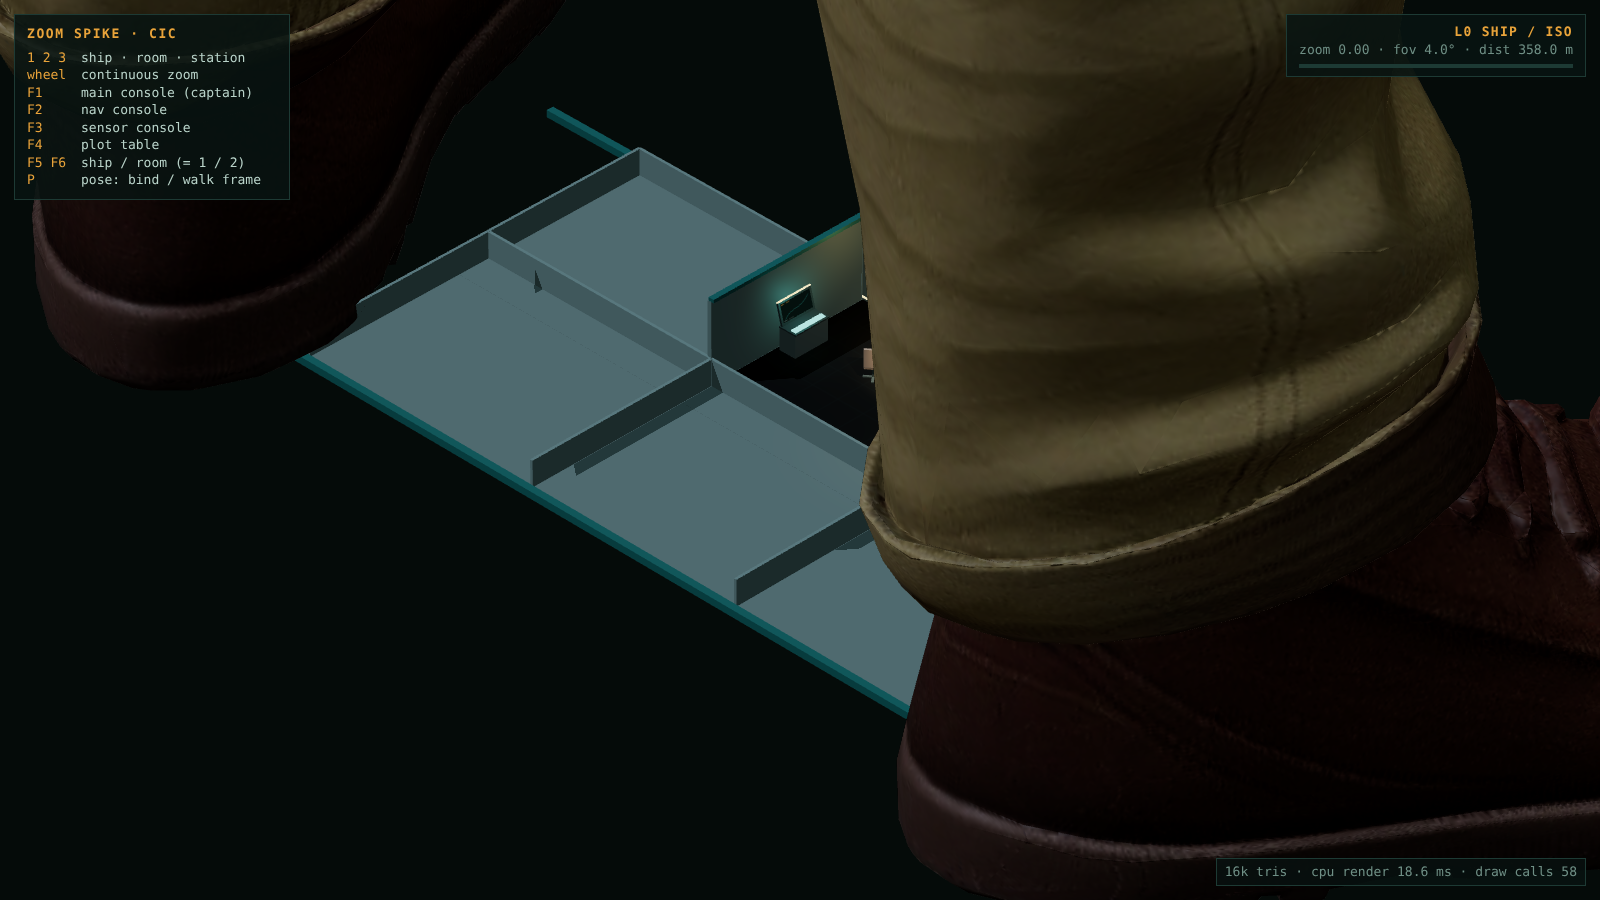
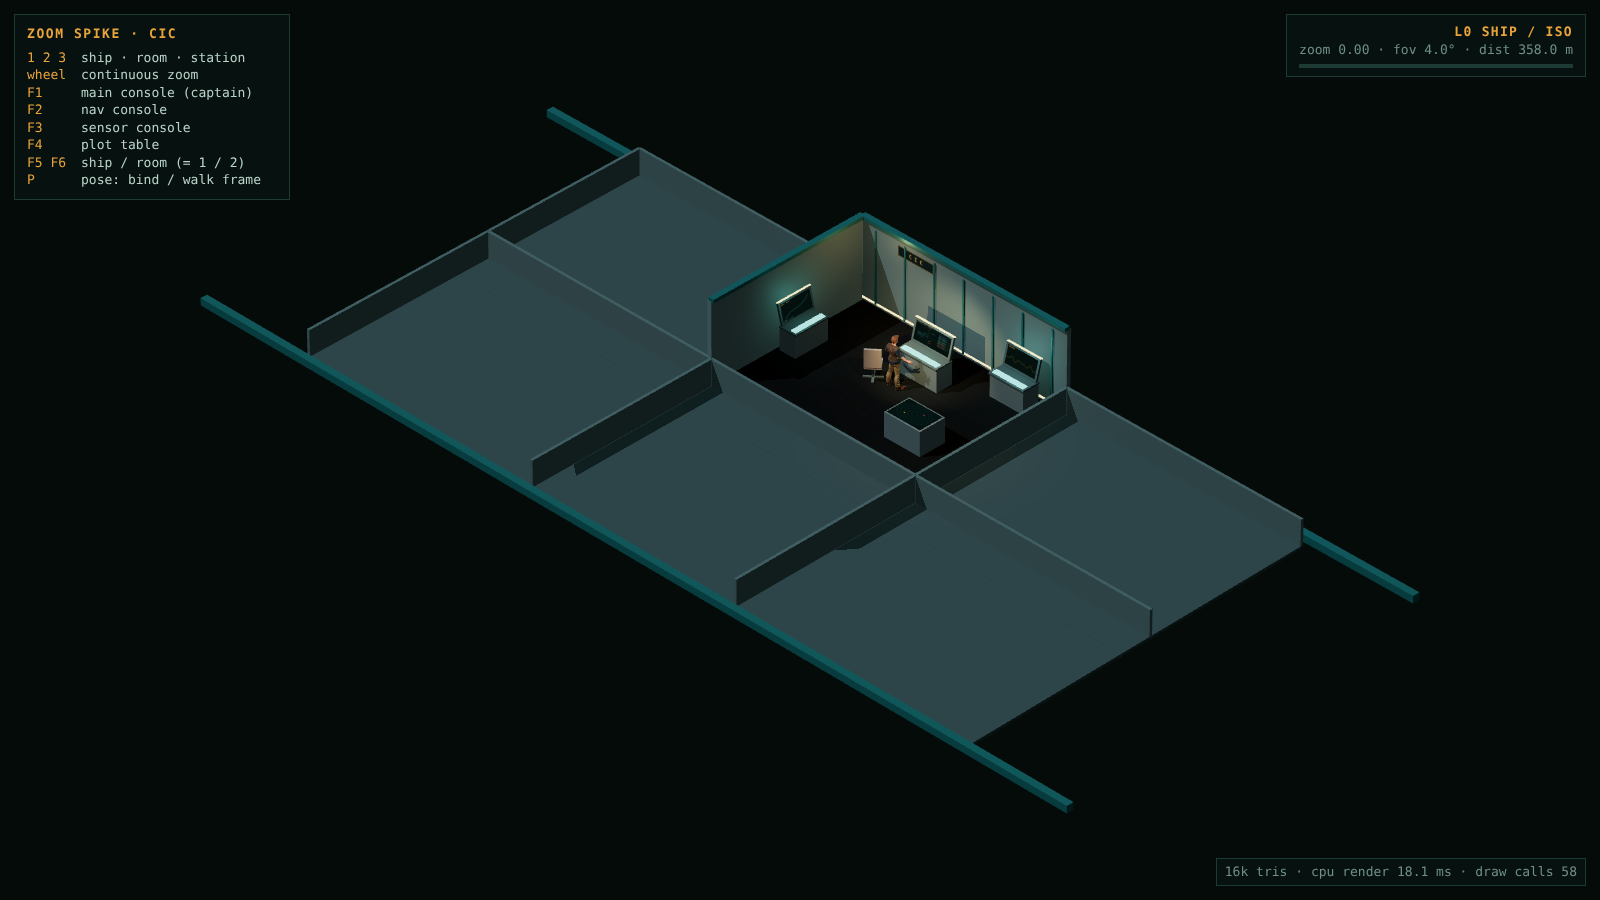
Spike: ship-to-station zoom (iso to over-the-shoulder) with findings
Three.js CIC diorama with the captain rig, live canvas tactical scope on
the main console, dolly-zoom camera rig (L0 iso, L1 room, L2 over the
shoulder), station jump stubs, plate zoom comparison, screenshots, and a
findings paragraph in docs/stations_and_command_ui.md.

Claude-Session: https://claude.ai/code/session_015PRSzR8Wnn9zCSxfKuTdYo

diff --git a/design/spikes/zoom_station.html b/design/spikes/zoom_station.html
@@ -56,8 +56,8 @@ const M = {
   amber: new THREE.MeshStandardMaterial({ color: 0x3a2508, emissive: 0xe8a33a, emissiveIntensity: 1.4 }),
   teal: new THREE.MeshStandardMaterial({ color: 0x062420, emissive: 0x35d3c8, emissiveIntensity: .9 }),
   chair: new THREE.MeshStandardMaterial({ color: 0x3b2f26, roughness: .8 }),
-  ghost: new THREE.MeshStandardMaterial({ color: 0x18211f, roughness: .9 }),
-  ghostWall: new THREE.MeshStandardMaterial({ color: 0x1c2826, roughness: .9 }),
+  ghost: new THREE.MeshStandardMaterial({ color: 0x0b1110, roughness: .95 }),
+  ghostWall: new THREE.MeshStandardMaterial({ color: 0x121b19, roughness: .95 }),
 };
 function box(w, h, d, mat, x, y, z, parent = S) {
   const m = new THREE.Mesh(new THREE.BoxGeometry(w, h, d), mat);
@@ -220,7 +220,7 @@ function fromPosTarget(p, t, fov) {
   return { t: t.clone(), az: Math.atan2(v.x, v.z) * 57.2958, el: Math.asin(v.y / d) * 57.2958, H: 2 * d * Math.tan(fov / 2 / 57.2958), fov };
 }
 const STATIONS = {
-  main:    fromPosTarget(new THREE.Vector3(.36, 1.92, .5),  new THREE.Vector3(-.02, 1.12, -1.55), 46),
+  main:    fromPosTarget(new THREE.Vector3(.5, 1.9, .55),  new THREE.Vector3(.12, 1.1, -1.55), 44),
   nav:     fromPosTarget(new THREE.Vector3(-1.6, 1.8, .45), new THREE.Vector3(-3.45, 1.15, -.2), 46),
   sensors: fromPosTarget(new THREE.Vector3(2.9, 1.85, -.4), new THREE.Vector3(2.55, 1.15, -2.55), 46),
   table:   fromPosTarget(new THREE.Vector3(1.9, 2.4, 2.4),  new THREE.Vector3(1.9, .86, .8), 46),
@@ -275,16 +275,18 @@ new THREE.GLTFLoader().load(GLB, gl => {
       mm.forEach(m => ['map', 'normalMap', 'roughnessMap', 'metalnessMap', 'emissiveMap'].forEach(s => { if (m[s]) maps.push(s + ' ' + m[s].image.width + 'x' + m[s].image.height); })); }
     if (o.isBone) bones++;
   });
-  const bb = new THREE.Box3().setFromObject(model), h = bb.max.y - bb.min.y, sc = 1.76 / h;
-  model.scale.setScalar(sc); model.updateMatrixWorld(true);
-  const bb2 = new THREE.Box3().setFromObject(model);
+  // Box3 on a SkinnedMesh uses the unskinned geometry (cm units, armature scaled 0.01) -> wrong size.
+  // Measure from bone world positions instead; the rig is already ~1.78 m, so no rescale.
+  model.updateMatrixWorld(true);
+  const bb = new THREE.Box3(); model.traverse(o => { if (o.isBone) bb.expandByPoint(new THREE.Vector3().setFromMatrixPosition(o.matrixWorld)); });
+  const h = bb.max.y - bb.min.y;
   const wrap = new THREE.Group(); wrap.add(model);
-  model.position.set(-(bb2.min.x + bb2.max.x) / 2, -bb2.min.y, -(bb2.min.z + bb2.max.z) / 2);
-  wrap.position.set(.05, 0, -.62); wrap.rotation.y = Math.PI; // face the main console (-z)
+  model.position.set(-(bb.min.x + bb.max.x) / 2, -bb.min.y + .04, -(bb.min.z + bb.max.z) / 2);
+  wrap.position.set(-.32, 0, -.6); wrap.rotation.y = Math.PI; // face the main console (-z)
   S.add(wrap);
   mixer = new THREE.AnimationMixer(model);
   if (gl.animations[0]) { clipAction = mixer.clipAction(gl.animations[0]); }
-  modelInfo = { file: GLB, loadMs: Math.round(tLoad), tris, verts, meshes, bones, maps, rawHeight: +h.toFixed(3), clips: gl.animations.map(a => a.name + ' ' + a.duration.toFixed(2) + 's') };
+  modelInfo = { file: GLB, loadMs: Math.round(tLoad), tris, verts, meshes, bones, maps, boneSpanH: +h.toFixed(3), boneMinY: +bb.min.y.toFixed(3), clips: gl.animations.map(a => a.name + ' ' + a.duration.toFixed(2) + 's') };
   window.modelInfo = modelInfo; window.ready = true;
 }, undefined, e => { window.err = String(e && e.message || e); document.getElementById('stats').textContent = 'GLB load failed: ' + window.err; });
 function togglePose() {

diff --git a/docs/stations_and_command_ui.md b/docs/stations_and_command_ui.md
@@ -252,6 +252,8 @@ Phases 1-7 need no new art and can be built and tested with the bots. 8 and 9 ca
 8. **The shells:** S1 first, S2 once the rooms are staged, S3 only when credits allow?
 9. **Does the captain ever go hands-on at a station for real** (UBOAT's double-click to first-person) or is L2 only a view?
 
+**Spike result (2026-11-14, `design/spikes/zoom_station.html`, shots `zoom_L0/L1/L2.png`, `plate_zoom.png`):** feasible. One three.js camera blends from a near-orthographic iso ship view (FOV 4 degrees at 358 m) through a perspective room view (30 degrees) to over-the-shoulder at the console (44 degrees, 2.3 m) with a dolly zoom, eased on keys 1/2/3 and continuous on the wheel; a live canvas tactical scope on the console stays fully legible at L2. The captain rig (`captain2/walk.glb`, 14.3 MB, 15.5k triangles, 24 bones, four 2048 px PBR maps) loads in about 7.5 s locally and renders at full scale with no fixes beyond measuring height from bones. The gaps are art, not tech: the only pose is the A-pose bind (arms out, reads as "presenting" not "working"), so sit, type and idle clips are needed (about 3 credits each); the back view holds up at shoulder distance but hair is lumpy up close; consoles and the chair are placeholder boxes, and each station wants its own prop set. Plates: 2x is soft but usable, 3x is visibly upscaled, and more to the point a plate cannot move the viewpoint behind the chair or host a live screen, so L2 has to be 3D. Rigging the four missing crew is about 160 credits (15 remain); swiftshader timings (0.35 to 1.3 s per frame) say nothing about a real GPU.
+
 ## Sources
 - UBOAT review: [SUBSIM](https://www.subsim.com/ssr/uboat/review_uboat_full.php)
 - Space Crew: [Wikipedia](https://en.wikipedia.org/wiki/Space_Crew), [Space.com review](https://www.space.com/space-crew-game-review)
